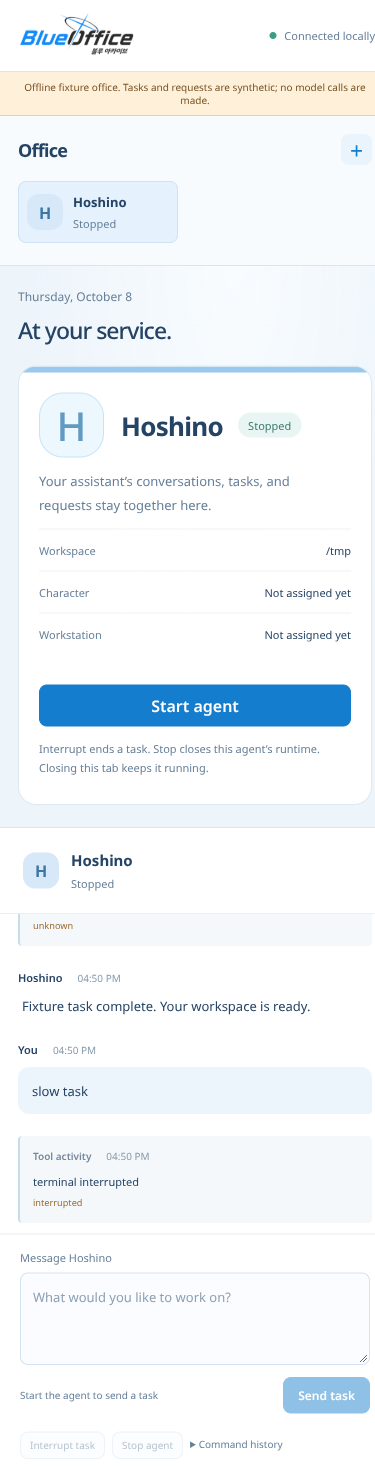
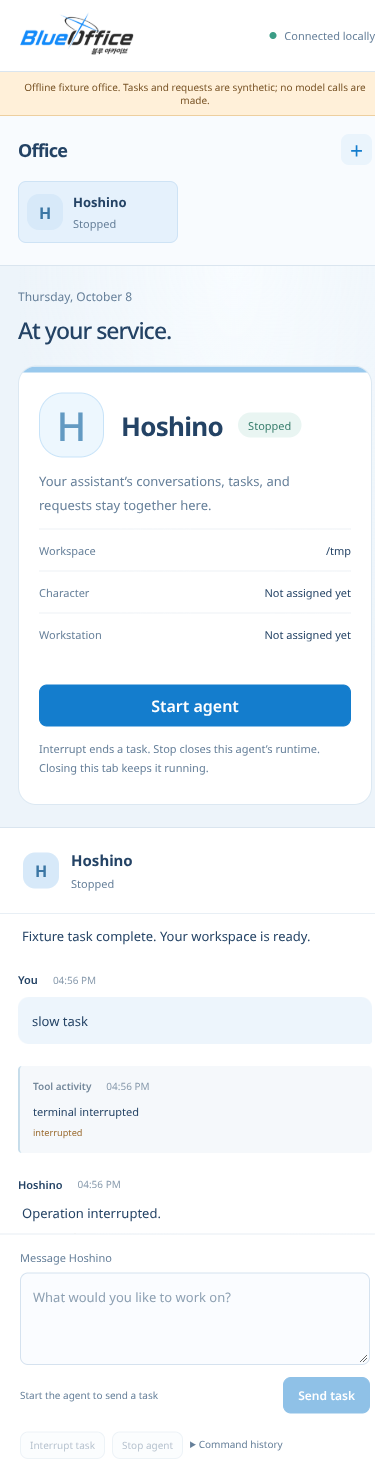
Record reviewed browser and runtime evidence

diff --git a/docs/validation/owned-chat-review.md b/docs/validation/owned-chat-review.md
@@ -1,0 +1,17 @@
+# Ticket #3 review
+
+Fixed point: `c0c167f057b0a62295dbda211ccb67bbdf24c908`. Initial implementation: `65b3e74`. Corrections: `3f26764`. Two independent reviewers followed the code-review skill's Standards and Spec axes.
+
+## Standards
+
+Initial report identified abnormal shutdown exits being hidden, final output truncation, and the office probe's whole-project mount exposing possible live `.blueoffice` data. These were corrected with exit diagnostics, complete public text preservation, and explicit source/dependency mount allowlisting. No cosmetic smell refactor was requested.
+
+Re-review: “All three findings are resolved in `3f26764`.” “No directly introduced regression found.” The reviewer independently reran all 14 TypeScript tests successfully.
+
+## Spec
+
+Initial report identified historical live/stored bindings being overwritten across a new runtime while old messages remained in a single conversation, plus long/interim public output loss. Persisted conversation records, per-message epochs, visible conversation boundaries, and sealed public interim segments resolve both findings.
+
+Re-review: “Both Spec findings are resolved in `3f26764`.” “No new demonstrable regression found in this targeted review.” The subsequent browser check passed retained, separately labeled conversations after restart.
+
+Initial findings: Standards 3 (including one isolation concern), Spec 2. These counts are separate because the output-truncation issue appeared on both axes. Remaining findings after correction: Standards 0, Spec 0. Verification details are in [owned-chat.md](owned-chat.md).

diff --git a/docs/validation/owned-chat.md b/docs/validation/owned-chat.md
@@ -34,3 +34,5 @@ Screenshots: [question at 1440](owned-chat/blueoffice-question-1440.png), [chat 
 Office identity, public transcript, requests and receipt registry persist separately from native Hermes data. Browser SSE reconnect obtains the durable current snapshot without replaying commands. Server restart marks prior ownership/request delivery unknown; it does not adopt or signal a saved PID. Explicit Start attempts the canonical lease and creates a new runtime epoch/conversation. Earlier live/stored bindings and per-message epoch associations remain in office storage, and the UI separates prior conversations from the new task context. The previous runtime must release its lease first.
 
 Advanced request multiselect/partial locks (#6), permission persistence (#7), complete normalized event replay and gap recovery (#8), native history/resume (#11/#12), and provider-route verification (#4) remain open. The single-turn installed test validates the adapter against a synthetic Chat Completions provider; it does not claim real GLM or Muse connectivity. Character/desk references are persisted but intentionally unassigned until the asset and room workflows exist.
+
+The independent Standards and Spec [review record](owned-chat-review.md) includes the initial findings and their verified corrections.
